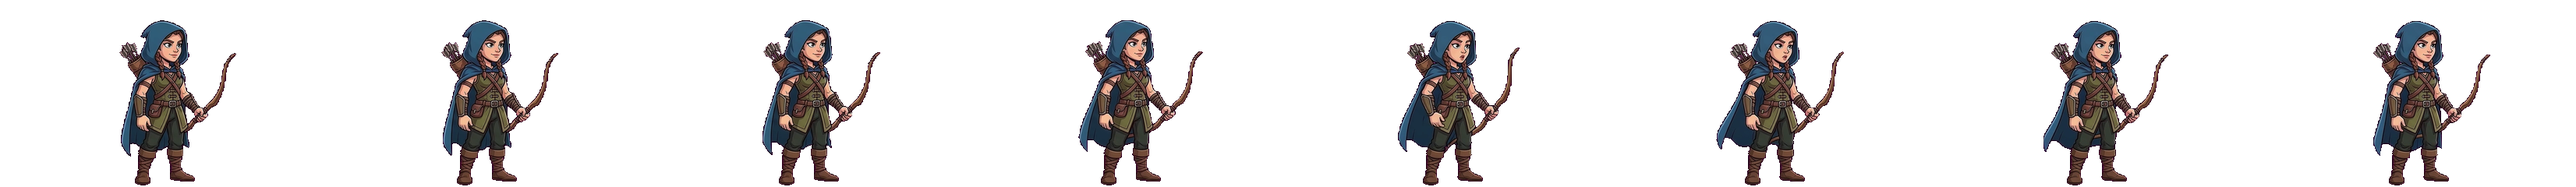
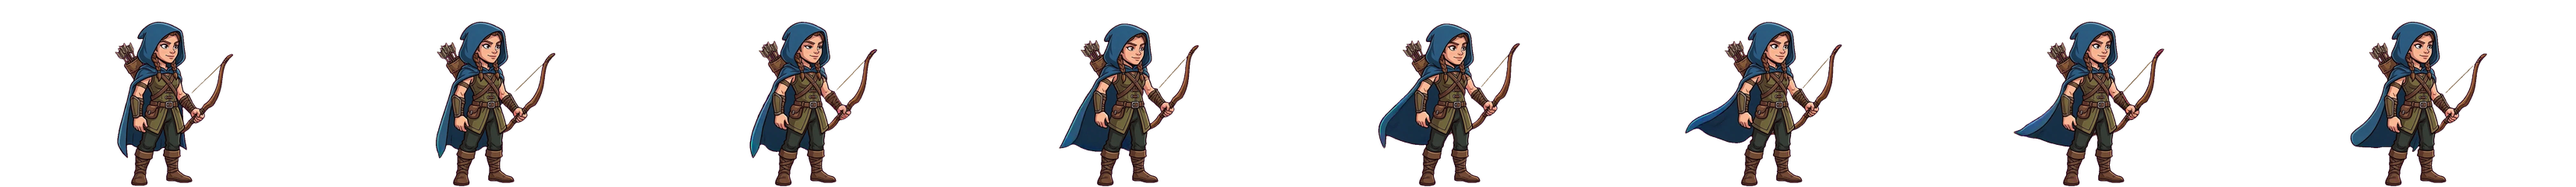
archer animation done

diff --git a/test/swing_test.dart b/test/swing_test.dart
@@ -1,4 +1,5 @@
 import 'package:epoch_clash/models/game_data.dart';
+import 'package:epoch_clash/services/sim/battle_sim.dart';
 import 'package:epoch_clash/services/sim/swing.dart';
 import 'package:flutter_test/flutter_test.dart';
 
@@ -41,6 +42,21 @@ void main() {
     expect(s.frameAt(toHit: 0), 4);
     expect(s.frameAt(toHit: 0.9, sinceHit: 0.1), 4 + 0); // 0.6 s in
     expect(s.frameAt(toHit: 0.6, sinceHit: 0.4), 7);
+  });
+
+  test('the Archer lets go on her release frame, from her bow', () {
+    final data = loadData();
+    final archer = data.unit('archer');
+    expect(Swing(archer).frameAt(toHit: 0), 5);
+    expect(archer.muzzleUp, greaterThan(0));
+    final sim = BattleSim(data);
+    sim[Side.player].xp = data.era(0).evolveXp;
+    sim.evolve(Side.player);
+    place(sim, Side.player, 'archer', 500);
+    place(sim, Side.enemy, 'clubman', 650);
+    final shooters = <String?>{};
+    run(sim, 3, each: () => shooters.addAll(sim.projectiles.where((p) => p.side == Side.player).map((p) => p.shooter?.id)));
+    expect(shooters, {'archer'});
   });
 
   test('the Medieval Swordsman: full swing fits, same damage per second', () {

diff --git a/lib/services/sim/battle_sim.dart b/lib/services/sim/battle_sim.dart
@@ -53,6 +53,7 @@ class SimProjectile {
     required this.speed,
     this.slot = -1,
     this.sprite = 'stone',
+    this.shooter,
   }) : startX = x;
 
   final int id;
@@ -72,6 +73,9 @@ class SimProjectile {
 
   /// fx image name the view draws.
   final String sprite;
+
+  /// The unit type that shot it (null for turrets): where it appears.
+  final UnitDef? shooter;
   bool done = false;
 
   /// 0 → 1 along the flight, for the arc the view draws.
@@ -577,6 +581,7 @@ class BattleSim {
         damage: dmg,
         speed: u.def.projectileSpeed,
         sprite: u.def.projectile,
+        shooter: u.def,
       );
     } else if (target != null) {
       _damageUnit(target, dmg, by: u.side);
@@ -629,6 +634,7 @@ class BattleSim {
     required double speed,
     int slot = -1,
     String sprite = 'stone',
+    UnitDef? shooter,
   }) {
     final p = SimProjectile(
       id: _nextId++,
@@ -641,6 +647,7 @@ class BattleSim {
       speed: speed,
       slot: slot,
       sprite: sprite,
+      shooter: shooter,
     );
     projectiles.add(p);
     _events.add(SimEvent(SimEventType.projectile, side, unitId: p.id, x: fromX));

diff --git a/lib/features/battle/game/battle_game.dart b/lib/features/battle/game/battle_game.dart
@@ -113,6 +113,13 @@ class BattleGame extends FlameGame {
     _applyCamera();
   }
 
+  /// Where a unit's shot appears (its bow), if the unit says.
+  Vector2? _muzzle(SimProjectile p) {
+    final d = p.shooter;
+    if (d == null || d.muzzleUp <= 0) return null;
+    return Vector2(p.startX + p.side.dir * d.muzzleAhead, Layout.groundY - d.muzzleUp);
+  }
+
   /// Loads era [i]'s art and builds its animations and effects.
   Future<void> _loadEra(int i) {
     if (i >= sim.data.eras.length) return Future.value();
@@ -361,11 +368,7 @@ class BattleGame extends FlameGame {
       final turret = p.kind == ProjectileKind.rock;
       final sprite = _fx[p.sprite];
       if (sprite == null) continue;
-      final view = ProjectileView(
-        p,
-        sprite,
-        launch: turret ? _bases[p.side]?.launchPos(p.slot) : null,
-      );
+      final view = ProjectileView(p, sprite, launch: turret ? _bases[p.side]?.launchPos(p.slot) : _muzzle(p));
       if (turret) _bases[p.side]?.fireTurret(p.slot);
       _shots[p.id] = view;
       world.add(view);

diff --git a/lib/models/game_data.dart b/lib/models/game_data.dart
@@ -44,6 +44,8 @@ class UnitDef {
     this.frames = defaultFrames,
     this.frameTimes = const {},
     this.impactFrame = -1,
+    this.muzzleAhead = 0,
+    this.muzzleUp = 0,
   });
 
   final String id;
@@ -102,6 +104,11 @@ class UnitDef {
   /// The attack frame where the blow lands (-1 = half-way).
   final int impactFrame;
 
+  /// Where a ranged unit's shot appears, in world units from its feet:
+  /// ahead of it and up (the bow at full draw). 0 = the default height.
+  final double muzzleAhead;
+  final double muzzleUp;
+
   int frameCount(String anim) => frames[anim] ?? defaultFrames[anim] ?? 6;
 
   double frameTime(String anim, double fallback) => frameTimes[anim] ?? fallback;
@@ -141,6 +148,8 @@ class UnitDef {
         if (m.sub('frameTimes')[k] is num) k: m.sub('frameTimes').dbl(k),
     },
     impactFrame: m.integer('impactFrame', -1),
+    muzzleAhead: m['muzzle'] is List ? (m['muzzle'] as List)[0].toDouble() : 0,
+    muzzleUp: m['muzzle'] is List ? (m['muzzle'] as List)[1].toDouble() : 0,
   );
 }
 

diff --git a/tools/art/build_sheet_unit.py b/tools/art/build_sheet_unit.py
@@ -6,6 +6,7 @@ Spec (tools/art/source/<era>/sheets/<unit>.json):
   {
     "sprite": "swordsman", "era": "medieval",
     "worldHeight": 108,          # how tall it stands in the game
+    "targetHeight": 200,         # optional: idle figure height in px
     "width": 40,                 # footprint on the lane
     "sheets": {
       "walk": {"file": "x_walk.png", "cols": 4, "count": 16, "anchor": "median"},
@@ -13,6 +14,10 @@ Spec (tools/art/source/<era>/sheets/<unit>.json):
                  "drop": [8]}    # 0-based frames to skip (broken or repeated)
     },
     "fromStrip": {"die": {"file": "old_die.png", "figureHeight": 210}},  # old equal-cell strip
+    "sequence": {"attack": [["walk", 0], ["attack", 9], ...]},  # frames picked
+                                 # across sheets (0-based, before "drop");
+                                 # a 1-frame idle breathes and a 1-frame die
+                                 # falls over in code
     "frameTimes": {"idle": 0.125, "walk": 0.125, "attack": 0.08},
     "impactFrame": 8             # attack frame where the blow lands
   }
@@ -25,6 +30,11 @@ be drawn at the same scale (checked: idle height is the reference).
 Strips are written as grids (as many frames per row as fit in 4096 px),
 so long animations need no cutting. Writes units/<era>_<sprite>_<anim>
 [_red].png and patches the unit in assets/data/units.json.
+
+"fitExisting": true replaces only the listed animations of a unit that
+already has art: frames are scaled to its current figure size
+("referenceHeight" = the new tool's idle figure height in px) and drawn
+into its current cell, so its other strips stay as they are.
 
 Usage: python3 tools/art/build_sheet_unit.py <spec.json> <project_root>
 """
@@ -42,7 +52,7 @@ from build_unit import red_variant  # noqa: E402
 MAX_TEX = 4096
 
 
-def cells(path: Path, cols: int, count: int, drop=()):
+def cells(path: Path, cols: int, count: int, drop=(), scale=1.0):
     im = Image.open(path).convert("RGBA")
     c = im.width // cols
     rows = math.ceil(count / cols)
@@ -52,8 +62,25 @@ def cells(path: Path, cols: int, count: int, drop=()):
         if i in drop:
             continue
         x, y = (i % cols) * c, (i // cols) * ch
-        out.append(im.crop((x, y, x + c, y + ch)))
+        f = despill(im.crop((x, y, x + c, y + ch)))
+        if abs(scale - 1) > 1e-3:
+            f = f.resize((round(c * scale), round(ch * scale)), Image.LANCZOS)
+        out.append(f)
     return out
+
+
+def despill(frame: Image.Image) -> Image.Image:
+    """Edges and thin lines (bow strings) that kept a magenta tint from the
+    source background become a neutral warm colour of the same lightness."""
+    a = np.asarray(frame).astype(np.float32)
+    r, g, b = a[..., 0], a[..., 1], a[..., 2]
+    m = (a[..., 3] > 0) & (r - g > 60) & (b - g > 50)
+    if m.any():
+        lum = (r + b) / 2
+        a[..., 0] = np.where(m, lum, r)
+        a[..., 1] = np.where(m, lum * 0.82, g)
+        a[..., 2] = np.where(m, lum * 0.62, b)
+    return Image.fromarray(a.clip(0, 255).astype(np.uint8), "RGBA")
 
 
 def body(frame: Image.Image):
@@ -68,16 +95,66 @@ def body(frame: Image.Image):
     return float(np.median(xs)), int(feet), int(feet - top)
 
 
+def fit_existing(spec, src, root):
+    data_path = root / "assets/data/units.json"
+    data = json.loads(data_path.read_text())
+    era = next(e for e in data["eras"] if e["id"] == spec["era"])
+    u = next(u for u in era["units"] if u["sprite"] == spec["sprite"])
+    cw, ch = u["frameW"], u["frameH"]
+    figure = u["headY"] / u["drawScale"]  # current figure height in px
+    k = figure / spec["referenceHeight"]
+    half, base = cw / 2, ch - 2
+    out = root / "assets/images/units"
+    for name, s in spec["sheets"].items():
+        frames = cells(src / s["file"], s["cols"], s["count"], set(s.get("drop", [])), k * s.get("scale", 1.0))
+        info = [body(f) for f in frames]
+        ax = float(np.median([i[0] for i in info])) if s.get("anchor") == "median" else info[0][0]
+        ay = int(np.median([i[1] for i in info]))
+        per_row = max(1, min(len(frames), MAX_TEX // cw))
+        rows = math.ceil(len(frames) / per_row)
+        sheet = Image.new("RGBA", (per_row * cw, rows * ch), (0, 0, 0, 0))
+        for i, f in enumerate(frames):
+            a = np.asarray(f)[..., 3] > 20
+            ys, xs = np.nonzero(a)
+            if xs.min() - ax < -half or xs.max() - ax > half or ay - ys.min() > base:
+                print(f"warning: {name} frame {i} pokes out of the {cw}x{ch} cell")
+            cell = Image.new("RGBA", (cw, ch), (0, 0, 0, 0))
+            cell.alpha_composite(f, (int(round(half - ax)), int(base - ay)))
+            sheet.alpha_composite(cell, ((i % per_row) * cw, (i // per_row) * ch))
+        stem = f"{spec['era']}_{spec['sprite']}_{name}"
+        sheet.save(out / f"{stem}.png")
+        red_variant(sheet).save(out / f"{stem}_red.png")
+        u.setdefault("frames", {})[name] = len(frames)
+        if name in spec.get("frameTimes", {}):
+            u.setdefault("frameTimes", {})[name] = spec["frameTimes"][name]
+        print(f"{name}: {len(frames)} frames into the existing {cw}x{ch} cell (x{k * s.get('scale', 1.0):.3f})")
+    data_path.write_text(json.dumps(data, indent=2) + "\n")
+
+
 def main():
     spec_path = Path(sys.argv[1])
     root = Path(sys.argv[2])
     spec = json.loads(spec_path.read_text())
     src = spec_path.parent
+    if spec.get("fitExisting"):
+        fit_existing(spec, src, root)
+        return
+
+    # Optional: shrink everything so the idle figure is targetHeight px
+    # tall (tools export 500+ px figures; ~200 is plenty in game). A sheet
+    # drawn at another size than the idle gets its own "scale".
+    k = 1.0
+    if "targetHeight" in spec and "idle" in spec["sheets"]:
+        s = spec["sheets"]["idle"]
+        k = spec["targetHeight"] / body(cells(src / s["file"], s["cols"], s["count"])[0])[2]
+
+    def scale_of(s):
+        return k * s.get("scale", 1.0)
 
     # (frames, anchor x, anchor y, scale) per animation.
     anims = {}
     for name, s in spec["sheets"].items():
-        frames = cells(src / s["file"], s["cols"], s["count"], set(s.get("drop", [])))
+        frames = cells(src / s["file"], s["cols"], s["count"], set(s.get("drop", [])), scale_of(s))
         info = [body(f) for f in frames]
         if s.get("anchor", "first") == "median":
             ax = float(np.median([i[0] for i in info]))
@@ -86,6 +163,18 @@ def main():
         ay = int(np.median([i[1] for i in info]))
         anims[name] = (frames, ax, ay, 1.0)
     ref_h = body(anims["idle"][0][0])[2] if "idle" in anims else body(next(iter(anims.values()))[0][0])[2]
+
+    # Animations assembled from frames of several sheets, each frame kept
+    # on its own sheet's anchor (so a walk pose can lead into a lunge).
+    # Indices count every frame of the sheet ("drop" doesn't apply).
+    raw = {}
+    for name, s in spec["sheets"].items():
+        frames = cells(src / s["file"], s["cols"], s["count"], scale=scale_of(s))
+        a = anims[name]
+        raw[name] = [(f, a[1], a[2]) for f in frames]
+    for name, seq in spec.get("sequence", {}).items():
+        picked = [raw[sheet][i] for sheet, i in seq]
+        anims[name] = ([p[0] for p in picked], None, None, [(p[1], p[2]) for p in picked])
 
     for name, s in spec.get("fromStrip", {}).items():
         strip = Image.open(src / s["file"]).convert("RGBA")
@@ -99,9 +188,13 @@ def main():
         anims[name] = (frames, round(w * k) / 2, round(h * k) - 1, 1.0)
 
     # One cell size for every animation, centred on the anchor.
+    def anchors(entry):
+        frames, ax, ay, per = entry
+        return per if isinstance(per, list) else [(ax, ay)] * len(frames)
+
     left = right = up = down = 0
-    for frames, ax, ay, _ in anims.values():
-        for f in frames:
+    for entry in anims.values():
+        for f, (ax, ay) in zip(entry[0], anchors(entry)):
             a = np.asarray(f)[..., 3] > 20
             ys, xs = np.nonzero(a)
             if not len(xs):
@@ -119,11 +212,12 @@ def main():
 
     out = root / "assets/images/units"
     counts = {}
-    for name, (frames, ax, ay, _) in anims.items():
+    for name, entry in anims.items():
+        frames = entry[0]
         per_row = max(1, min(len(frames), MAX_TEX // cw))
         rows = math.ceil(len(frames) / per_row)
         sheet = Image.new("RGBA", (per_row * cw, rows * ch), (0, 0, 0, 0))
-        for i, f in enumerate(frames):
+        for i, (f, (ax, ay)) in enumerate(zip(frames, anchors(entry))):
             cell = Image.new("RGBA", (cw, ch), (0, 0, 0, 0))
             cell.alpha_composite(f, (int(round(half - ax)), int(base - ay)))
             sheet.alpha_composite(cell, ((i % per_row) * cw, (i // per_row) * ch))
